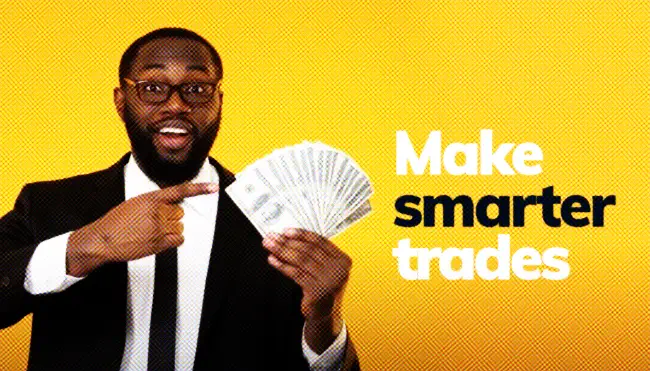
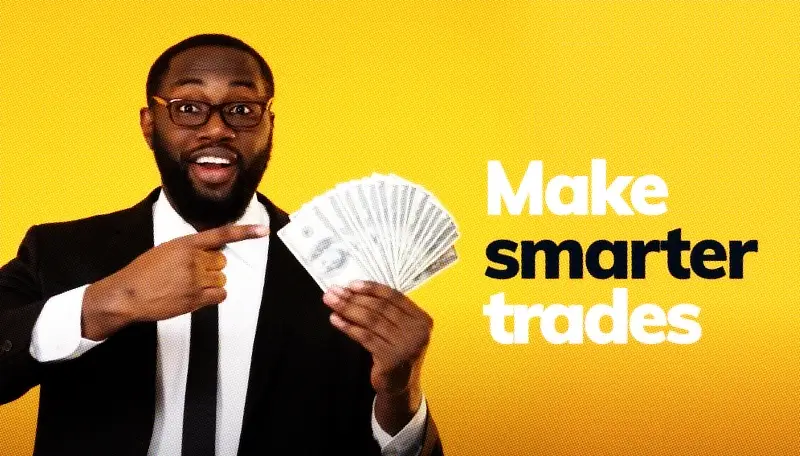
Visuals resized

diff --git a/index.html b/index.html
@@ -46,7 +46,7 @@
                     <div class="content">
                         <div class="visual">
                             <div class="visual-wrapper">
-                                <img class="portrait" src="/assets/visuals/misfit_union.webp" width="818px" height="1100px" alt="Misfit Union packaging">
+                                <img class="portrait" src="/assets/visuals/misfit_union.webp" width="558px" height="750px" alt="Misfit Union packaging">
                             </div>
                         </div>
                         <div class="text">
@@ -92,7 +92,7 @@
                     <div class="content">
                         <div class="visual">
                             <div class="visual-wrapper">
-                                <img class="landscape" loading="lazy"  src="/assets/visuals/reforest_nicosia.webp" width="1200px" height="900px" alt="Reforest Nicosia website">
+                                <img class="landscape" loading="lazy"  src="/assets/visuals/reforest_nicosia.webp" width="800px" height="600px" alt="Reforest Nicosia website">
                             </div>
                         </div>
                         <div class="text">
@@ -116,7 +116,7 @@
                     <div class="content">
                         <div class="visual">
                             <div class="visual-wrapper">
-                                <img class="portrait" loading="lazy" src="/assets/visuals/medovie.webp" width="1200px" height="998px" alt="Medovie copywriting samples">
+                                <img class="portrait" loading="lazy" src="/assets/visuals/medovie.webp" width="1000px" height="833px" alt="Medovie copywriting samples">
                             </div>
                         </div>
                         <div class="text">
@@ -135,7 +135,7 @@
                     <div class="content">
                         <div class="visual">
                             <div class="visual-wrapper">
-                                <img class="landscape" loading="lazy" src="/assets/visuals/boc.webp" width="1200px" height="736px" alt="Bank of Cyprus mobile app">
+                                <img class="landscape" loading="lazy" src="/assets/visuals/boc.webp" width="1000px" height="614px" alt="Bank of Cyprus mobile app">
                             </div>
                         </div>
                         <div class="text">
@@ -155,7 +155,7 @@
                     <div class="content">
                         <div class="visual">
                             <div class="visual-wrapper">
-                                <img class="portrait" loading="lazy" src="/assets/visuals/becca_europe.webp" width="1000px" height="1000px" alt="BECCA Europe visual identity">
+                                <img class="portrait" loading="lazy" src="/assets/visuals/becca_europe.webp" width="800px" height="810px" alt="BECCA Europe visual identity">
                             </div>
                         </div>
                         <div class="text">
@@ -175,7 +175,7 @@
                     <div class="content">
                         <div class="visual">
                             <div class="visual-wrapper">
-                                <img class="landscape" loading="lazy" src="/assets/visuals/wp_clone.webp" width="1200px" height="850px" alt="WP Clone website">
+                                <img class="landscape" loading="lazy" src="/assets/visuals/wp_clone.webp" width="1000px" height="708px" alt="WP Clone website">
                             </div>
                         </div>
                         <div class="text">
@@ -199,7 +199,7 @@
                     <div class="content">
                         <div class="visual">
                             <div class="visual-wrapper">
-                                <img class="landscape" loading="lazy" src="/assets/visuals/longform.webp" width="650px" height="488px" alt="Article illustration">
+                                <img class="landscape" loading="lazy" src="/assets/visuals/longform.webp" width="800px" height="600px" alt="Article illustration">
                             </div>
                         </div>
                         <div class="text">
